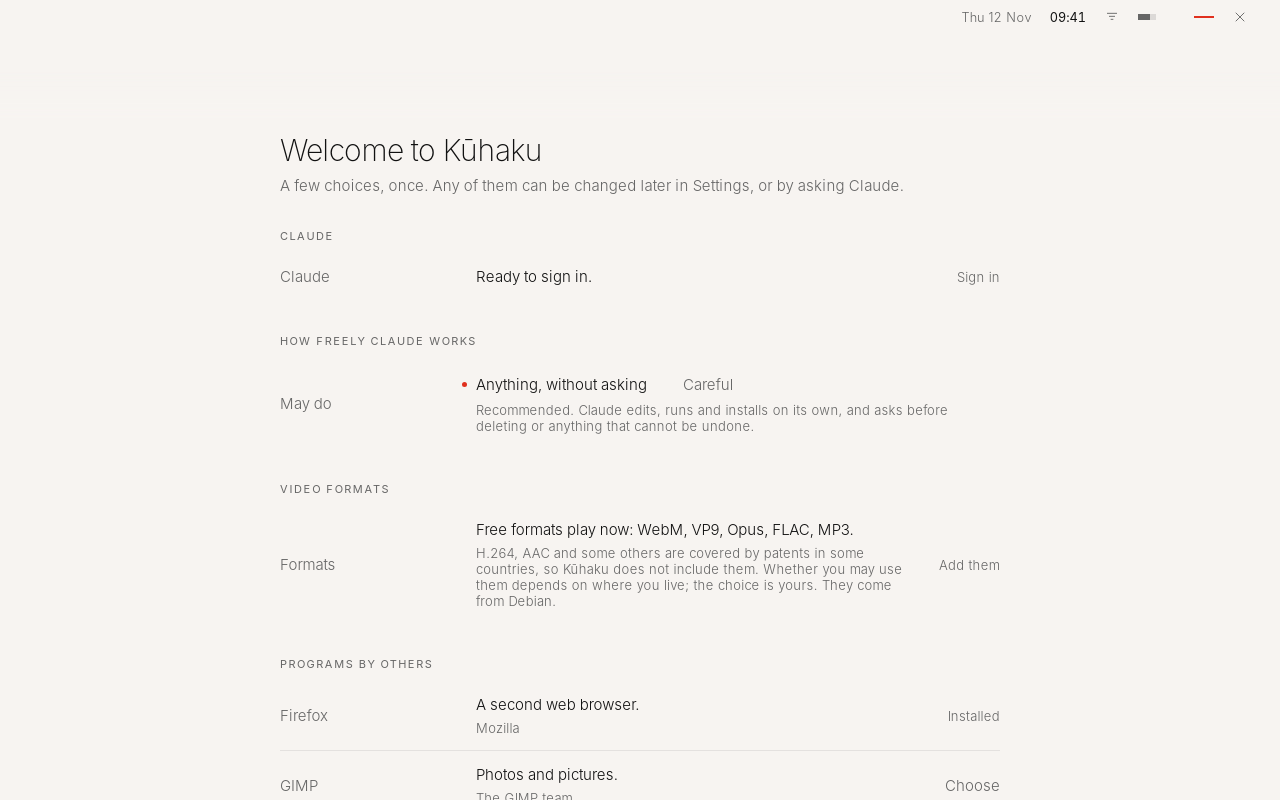
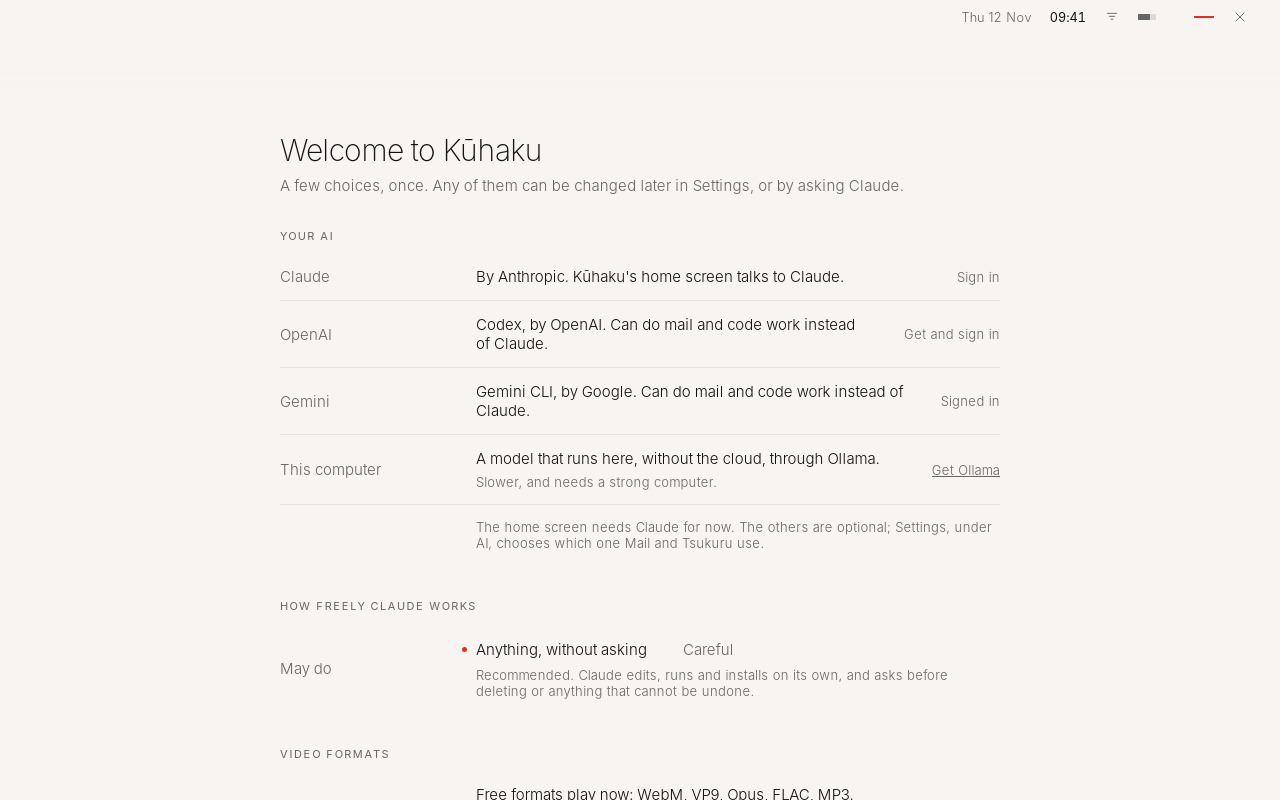
First steps: your AI, not a shopping list of programs
The page now offers Claude, OpenAI (Codex) and Gemini, and a model on
this computer (Ollama), instead of a list of programs (just ask for
those). Codex and Gemini CLI are fetched from npm into ~/.local the
first time they are chosen, with Node from Debian if needed; signing in
to them from Settings used to fail silently when they were missing.

diff --git a/home/pages.js b/home/pages.js
@@ -84,21 +84,34 @@ function renderApps() {
   });
 }
 // ---- The first start: a few choices, once (for those who added Kūhaku without its installer) ----
-let welcome = null, wPicked = new Set(), wTimer = 0;
+let welcome = null, wTimer = 0;
 window.setWelcome = (d) => { welcome = d; if (page === 'welcome') renderWelcome(); };
+const WELCOME_AI = [
+  ['claude', 'Claude', 'By Anthropic. Kūhaku\'s home screen talks to Claude.'],
+  ['codex', 'OpenAI', 'Codex, by OpenAI. Can do mail and code work instead of Claude.'],
+  ['gemini', 'Gemini', 'Gemini CLI, by Google. Can do mail and code work instead of Claude.'],
+];
 function renderWelcome() {
   clearTimeout(wTimer);
   if (page !== 'welcome') return;
-  wTimer = setTimeout(() => native({ type: 'panel', action: 'welcome' }), 4000);  // Claude may finish arriving
+  wTimer = setTimeout(() => native({ type: 'panel', action: 'welcome' }), 4000);  // sign-ins finish elsewhere
   const w = welcome;
   let h = '<div class="inner narrow"><h1>Welcome to Kūhaku</h1>' +
     '<p class="p-sub" style="font-size:15px">A few choices, once. Any of them can be changed later in Settings, or by asking Claude.</p>';
   if (!w) { $('page').innerHTML = h + '<div class="p-wait" style="margin-top:24px"><span class="dot"></span>Looking around…</div></div>'; return; }
-  const claude = { ready: 'Signed in. Ask for anything on the home screen.', signin: 'Ready to sign in.',
-    waiting: 'Arriving from Anthropic. This needs the internet.' }[w.claude];
-  h += `<div class="p-label"><span>Claude</span></div><div class="p-rows">
-    <div class="srow"><span class="k">Claude</span><span class="grow">${claude}</span>
-      ${w.claude === 'signin' ? '<button class="p-link" data-wel="signin">Sign in</button>' : ''}</div></div>`;
+  const act = (k, st) => ({
+    ready: '<span class="p-sub" style="margin:0">Signed in</span>',
+    working: '<span class="p-sub" style="margin:0">Signing in…</span>',
+    waiting: '<span class="p-sub" style="margin:0">Arriving…</span>',
+    signin: `<button class="p-link" data-wel="ai" data-v="${k}">Sign in</button>`,
+    get: `<button class="p-link" data-wel="ai" data-v="${k}">Get and sign in</button>`,
+  }[st] || '');
+  h += `<div class="p-label"><span>Your AI</span></div><div class="p-rows">` +
+    WELCOME_AI.map(([k, name, about]) => `<div class="srow"><span class="k">${name}</span><span class="grow">${about}</span>${act(k, (w.ai || {})[k])}</div>`).join('');
+  const L = w.local || {};
+  h += `<div class="srow"><span class="k">This computer</span><span class="grow">A model that runs here, without the cloud, through Ollama.${L.models && L.models.length ? '' : '<div class="p-sub">Slower, and needs a strong computer.</div>'}</span>
+    ${L.running && L.models.length ? '<span class="p-sub" style="margin:0">Ready</span>' : '<a class="p-link" href="https://ollama.com/download">Get Ollama</a>'}</div>
+    <div class="srow"><span class="k"></span><span class="grow p-sub" style="margin:0">The home screen needs Claude for now. The others are optional; Settings, under AI, chooses which one Mail and Tsukuru use.</span></div></div>`;
   const mode = w.permission_mode === 'bypassPermissions' ? 'bypassPermissions' : 'acceptEdits';  // as Settings reads it
   h += `<div class="p-label"><span>How freely Claude works</span></div><div class="p-rows">
     <div class="srow"><span class="k">May do</span><div class="grow">${OPT('permission_mode', [['bypassPermissions', 'Anything, without asking'], ['acceptEdits', 'Careful']], mode)}
@@ -109,12 +122,8 @@ function renderWelcome() {
     <div class="srow"><span class="k">Formats</span><div class="grow">${c.added ? 'All, including H.264 and AAC.' : 'Free formats play now: WebM, VP9, Opus, FLAC, MP3.'}
       ${c.added ? '' : '<div class="p-sub">H.264, AAC and some others are covered by patents in some countries, so Kūhaku does not include them. Whether you may use them depends on where you live; the choice is yours. They come from Debian.</div>'}</div>
       ${c.added ? '' : `<button class="p-link" data-wel="codecs">${c.running ? 'Adding…' : 'Add them'}</button>`}</div></div>`;
-  h += `<div class="p-label"><span>Programs by others</span></div><div class="p-rows">` +
-    (w.programs || []).map((a) => `<div class="srow"><span class="k">${esc(a.name)}</span><span class="grow">${esc(a.about)}<div class="p-sub">${esc(a.by)}</div></span>
-      ${a.installed ? '<span class="p-sub" style="margin:0">Installed</span>'
-        : `<span class="opt${wPicked.has(a.id) ? ' sel' : ''}" data-wel="pick" data-v="${esc(a.id)}">${wPicked.has(a.id) ? 'Chosen' : 'Choose'}</span>`}</div>`).join('') +
-    (wPicked.size ? `<div class="srow"><span class="k"></span><span class="grow"></span><button class="p-link" data-wel="programs">${w.adding ? 'Adding…' : 'Add the chosen ' + (wPicked.size > 1 ? 'programs' : 'program')}</button></div>` : '') +
-    '</div>';
+  h += `<div class="p-label"><span>Everything else</span></div><div class="p-rows">
+    <div class="srow"><span class="k">Programs</span><span class="grow">Just ask on the home screen, like “install LibreOffice” or “I need something to edit photos”.</span></div></div>`;
   h += `<div class="p-rows" style="margin-top:34px"><div class="srow"><span class="k"></span><span class="grow"></span><button class="p-link" data-wel="done" style="font-size:15px;color:var(--fg)">Done</button></div></div></div>`;
   const top = $('page').scrollTop;
   $('page').innerHTML = h; $('page').scrollTop = top;
@@ -125,10 +134,8 @@ $('page').addEventListener('click', (e) => {
   const b = e.target.closest('[data-wel]'); if (!b) return;
   e.stopPropagation();
   const act = b.dataset.wel, pref = (key, value) => native({ type: 'panel', action: 'pref', key, value, quiet: true });
-  if (act === 'pick') { wPicked.has(b.dataset.v) ? wPicked.delete(b.dataset.v) : wPicked.add(b.dataset.v); return renderWelcome(); }
-  if (act === 'signin') pref('welcome-signin', 1);
+  if (act === 'ai') { pref('welcome-ai', b.dataset.v); b.textContent = 'Signing in…'; }
   if (act === 'codecs') { pref('add-codecs', 1); b.textContent = 'Adding…'; }
-  if (act === 'programs') { pref('welcome-programs', [...wPicked]); b.textContent = 'Adding…'; wPicked.clear(); }
   if (act === 'done') { pref('welcome-done', 1); return closePage(); }
   setTimeout(() => native({ type: 'panel', action: 'welcome' }), 600);
 }, true);
@@ -238,7 +245,7 @@ function renderSettings() {
   h += `<div class="p-label" id="sec-updates"><span>Updates</span></div><div class="p-rows">
     <div class="srow"><span class="k">Updates</span><span class="grow">${u.auto ? 'Security fixes install by themselves' : 'Not automatic'}${u.checked ? ' · last ' + when(u.checked) : ''}</span>
       <button class="p-link" data-pref-btn="update-now">${u.running ? 'Updating…' : 'Update now'}</button></div>
-    <div class="srow"><span class="k">First steps</span><span class="grow">Claude, how freely it works, video formats and programs, on one page</span>
+    <div class="srow"><span class="k">First steps</span><span class="grow">Your AI, how freely it works and video formats, on one page</span>
       <span class="p-link" data-act2="welcome">Open</span></div>
     <div class="srow"><span class="k">Video formats</span><span class="grow">${(p.codecs || {}).added ? 'All, including H.264 and AAC' : 'Free formats only. H.264, AAC and others are covered by patents in some countries; adding them is your choice.'}</span>
       ${(p.codecs || {}).added ? '' : `<button class="p-link" data-pref-btn="add-codecs">${(p.codecs || {}).running ? 'Adding…' : 'Add'}</button>`}</div></div>`;

diff --git a/kuhaku_settings.py b/kuhaku_settings.py
@@ -20,6 +20,7 @@ from gi.repository import GLib
 import claude_accounts as accounts
 from kuhaku_base import Home
 from kuhaku_config import ANSWERS_FILE, CONFIG_FILE, HERE, HOME
+from kuhaku_log import note as log_note
 from kuhaku_log import report
 from kuhaku_system import (
     PAD_KEYS,
@@ -44,35 +45,8 @@ KEEP_CODECS = (
     " && apt-mark manual $p >/dev/null || true; done; } && "
 )
 
-# The first start, for people who added Kūhaku without its installer: the installer's programs by
-# others, from Debian (each with the package names it may have; Mint and Debian differ a little).
-PROGRAMS = (
-    ("firefox", "Firefox", "Mozilla", "A second web browser.", ("firefox-esr", "firefox")),
-    ("thunderbird", "Thunderbird", "Mozilla", "Mail and calendar.", ("thunderbird",)),
-    ("libreoffice", "LibreOffice", "The Document Foundation", "Documents, spreadsheets, slides.", ("libreoffice",)),
-    ("gimp", "GIMP", "The GIMP team", "Photos and pictures.", ("gimp",)),
-    ("inkscape", "Inkscape", "The Inkscape project", "Drawings and vector graphics.", ("inkscape",)),
-    ("krita", "Krita", "KDE", "Painting.", ("krita",)),
-    ("vlc", "VLC", "VideoLAN", "Plays any video or music.", ("vlc",)),
-    ("audacity", "Audacity", "Audacity team", "Records and edits sound.", ("audacity",)),
-    ("blender", "Blender", "Blender Foundation", "3D models and animation.", ("blender",)),
-    ("freecad", "FreeCAD", "FreeCAD project", "3D design for making things.", ("freecad",)),
-)
-
-
-def installed(packages):
-    """Which of these packages are installed."""
-    _, out, _ = run(["dpkg-query", "-W", "-f=${Package} ${Status}\\n", *packages])
-    return {line.split()[0] for line in out.splitlines() if line.endswith("ok installed")}
-
-
-def available(names):
-    """The first of these package names the package sources know (empty when none)."""
-    for name in names:
-        rc, out, _ = run(["apt-cache", "policy", name])
-        if rc == 0 and "Candidate:" in out and "Candidate: (none)" not in out:
-            return name
-    return ""
+# Other AIs Kūhaku can work with, fetched from their makers (npm) the first time they are chosen.
+AI_TOOLS = {"codex": "@openai/codex", "gemini": "@google/gemini-cli"}
 
 
 def welcome_due(state):
@@ -233,10 +207,8 @@ class Settings(Home):
             self.update_now()
         elif key == "add-codecs":
             self.add_codecs()
-        elif key == "welcome-programs":
-            self.add_programs([str(x) for x in (value or []) if isinstance(x, str)])
-        elif key == "welcome-signin":
-            GLib.idle_add(lambda: self.sign_in(accounts.active()["id"]) and False)
+        elif key == "welcome-ai" and value in ("claude", *AI_TOOLS):
+            self.get_ai(value)
         elif key == "welcome-done":
             self.state["welcomed"] = True
             self.save_state()
@@ -306,46 +278,73 @@ class Settings(Home):
         self.note("Video formats", "Adding…")
 
     def read_welcome(self):
-        """What the first-start page shows: Claude, how freely it works, video formats, programs."""
-        acct = accounts.active()
-        has_claude = Path(self.claude).exists() or bool(shutil.which("claude"))
-        have = installed([n for *_, names in PROGRAMS for n in names])
+        """What the first-start page shows: the AIs, how freely Claude works, video formats."""
+        home_set = accounts.active()["set"]
+        signing: set[str] = getattr(self, "signing", set())
+        getting: set[str] = getattr(self, "getting_ai", set())
+        ai = {}
+        for k in ("claude", *AI_TOOLS):
+            acct = accounts.find(home_set, k)
+            have = Path(accounts.exe(k)).exists() or (k == "claude" and Path(self.claude).exists())
+            if acct and accounts.signed_in(acct):
+                ai[k] = "ready"
+            elif k in getting or (acct and acct["id"] in signing):
+                ai[k] = "working"
+            elif have:
+                ai[k] = "signin"
+            else:
+                ai[k] = "waiting" if k == "claude" else "get"  # Claude Code arrives by itself at the first start
         return {
-            "claude": "ready" if accounts.signed_in(acct) else ("signin" if has_claude else "waiting"),
+            "ai": ai,
+            "local": accounts.local_status(),
             "permission_mode": self.config.get("permission_mode") or "default",
             "codecs": {"added": codecs_added(), "running": bool(getattr(self, "adding_codecs", None))},
-            "programs": [
-                {"id": i, "name": n, "by": by, "about": about, "installed": bool(have & set(names))}
-                for i, n, by, about, names in PROGRAMS
-            ],
-            "adding": bool(getattr(self, "adding_programs", None)),
         }
 
-    def add_programs(self, ids):
-        """Programs by others chosen on the first-start page, from the system's package sources
-        (asks for the password once)."""
-        wanted = [names for i, *_, names in PROGRAMS if i in ids]
-        if not wanted or getattr(self, "adding_programs", None):
+    def get_ai(self, k):
+        """Sign in to one of the AIs; OpenAI's Codex and Google's Gemini CLI are fetched from npm
+        into ~/.local first if they are not here (Node from Debian, asking for the password once)."""
+        home_set = accounts.active()["set"]
+        getting: set[str] = self.__dict__.setdefault("getting_ai", set())
+        if k in getting:
             return
+        if k == "claude" or Path(accounts.exe(k)).exists():
+            ident = accounts.ensure(home_set, k)
+            GLib.idle_add(lambda: self.sign_in(ident) and False)
+            return
+        getting.add(k)
 
         def work():
-            names = [n for n in (available(ns) for ns in wanted) if n]
-            rc = 1
-            if names:  # names only from PROGRAMS, never from the page
-                rc = subprocess.run(
-                    [
-                        "pkexec",
-                        "sh",
-                        "-c",
-                        "DEBIAN_FRONTEND=noninteractive apt-get update -q && "
-                        "DEBIAN_FRONTEND=noninteractive apt-get install -y -q " + " ".join(names),
-                    ],
+            ok = True
+            if not shutil.which("npm"):
+                ok = (
+                    subprocess.run(
+                        [
+                            "pkexec",
+                            "sh",
+                            "-c",
+                            "DEBIAN_FRONTEND=noninteractive apt-get update -q && "
+                            "DEBIAN_FRONTEND=noninteractive apt-get install -y -q nodejs npm",
+                        ],
+                        capture_output=True,
+                    ).returncode
+                    == 0
+                )
+            if ok:
+                r = subprocess.run(
+                    ["npm", "install", "-g", "--prefix", str(HOME / ".local"), AI_TOOLS[k]],
                     capture_output=True,
-                ).returncode
-            self.adding_programs = None
-            msg = "Added" if rc == 0 else ("Cancelled" if rc in (126, 127) else "Could not finish")
-            GLib.idle_add(self.note, "Programs", msg)
+                    text=True,
+                )
+                ok = r.returncode == 0 and Path(accounts.exe(k)).exists()
+                if not ok:
+                    log_note(f"npm install {AI_TOOLS[k]}: {r.stderr[-400:]}")
+            getting.discard(k)
+            if ok:
+                ident = accounts.ensure(home_set, k)
+                GLib.idle_add(lambda: self.sign_in(ident) and False)
+            else:
+                GLib.idle_add(self.note, accounts.KINDS[k]["label"], "Could not get it")
 
-        self.adding_programs = threading.Thread(target=work, daemon=True)
-        self.adding_programs.start()
-        self.note("Programs", "Adding…")
+        threading.Thread(target=work, daemon=True).start()
+        self.note(accounts.KINDS[k]["label"], "Getting it…")

diff --git a/uitests/test_home_ui.py b/uitests/test_home_ui.py
@@ -90,14 +90,10 @@ class Night(PageCase):
 
 
 WELCOME = {
-    "claude": "signin",
+    "ai": {"claude": "signin", "codex": "get", "gemini": "ready"},
+    "local": {"installed": False, "running": False, "models": []},
     "permission_mode": "bypassPermissions",
     "codecs": {"added": False, "running": False},
-    "programs": [
-        {"id": "firefox", "name": "Firefox", "by": "Mozilla", "about": "A second web browser.", "installed": True},
-        {"id": "gimp", "name": "GIMP", "by": "The GIMP team", "about": "Photos and pictures.", "installed": False},
-    ],
-    "adding": False,
 }
 
 
@@ -112,23 +108,31 @@ class FirstStart(PageCase):
     def text(self):
         return self.page.js("return document.getElementById('page').innerText;")
 
+    def sent(self, key):
+        return [m for m in self.page.messages if isinstance(m, dict) and m.get("key") == key]
+
     def test_the_choices_are_there(self):
         t = self.text()
-        for words in ("Welcome to Kūhaku", "Sign in", "Anything, without asking", "patents", "Add them", "Installed"):
+        for words in (
+            "Welcome to Kūhaku",
+            "YOUR AI",
+            "OpenAI",
+            "Gemini",
+            "Get and sign in",
+            "Signed in",
+            "Anything, without asking",
+            "patents",
+            "Add them",
+            "Just ask",
+        ):
             self.assertIn(words, t)
         self.assertLooksLike("welcome-day", tolerance=0.004)
 
-    def test_choosing_a_program_offers_to_add_it(self):
-        self.assertNotIn("Add the chosen", self.text())
-        self.page.click("[data-wel='pick'][data-v='gimp']")
-        self.assertIn("Add the chosen program", self.text())
-        sent = [m for m in self.page.messages if m.get("key") == "welcome-programs"]
-        self.assertEqual(sent, [])
-        self.page.click("[data-wel='programs']")
-        sent = [m for m in self.page.messages if m.get("key") == "welcome-programs"]
-        self.assertEqual(sent[-1]["value"], ["gimp"])
+    def test_getting_another_ai(self):
+        self.page.click("[data-wel='ai'][data-v='codex']")
+        self.assertEqual(self.sent("welcome-ai")[-1]["value"], "codex")
 
     def test_done_closes_and_remembers(self):
         self.page.click("[data-wel='done']")
-        self.assertTrue([m for m in self.page.messages if m.get("key") == "welcome-done"])
+        self.assertTrue(self.sent("welcome-done"))
         self.assertEqual(self.page.js("return document.getElementById('page').hidden;"), True)

diff --git a/CHANGELOG.md b/CHANGELOG.md
@@ -6,7 +6,7 @@ number lives in `VERSION`, and each release is a git tag (`v0.3.0`).
 ## Unreleased
 
 ### New
-- **First steps.** People who add Kūhaku to Debian or Mint without its installer get one quiet page at the first start: sign in to Claude, how freely it works, video formats, and programs by others. It shows once, and stays in Settings → Updates → First steps.
+- **First steps.** People who add Kūhaku to Debian or Mint without its installer get one quiet page at the first start: sign in to Claude, and to OpenAI (Codex) or Gemini if they like, how freely Claude works, and video formats. OpenAI's and Google's tools are fetched from npm the first time they are chosen (also from Settings → AI, where signing in to them used to fail when they were missing). Other programs: just ask. It shows once, and stays in Settings → Updates → First steps.
 
 ### Changed
 - Kūhaku no longer ships media formats covered by patents in some countries (H.264, H.265, AAC and others: the GStreamer bad, ugly and libav plugins). You add them yourself if you choose, with **More video formats** in the installer or **Settings → Updates → Video formats**. Computers that already have them keep them. Without them, screen recordings are saved as WebM (VP8) instead of MP4.

diff --git a/INSTALL.md b/INSTALL.md
@@ -38,7 +38,7 @@ There are two ways in:
    ```
    It downloads the latest package and installs it with apt. Or by hand: download `kuhaku_all.deb` from the [latest release](https://github.com/rudolfkrcmar/kuhaku-linux/releases/latest) and run `sudo apt install ./kuhaku_all.deb`.
 2. Log out. On the login screen choose the **Kūhaku** session, and log in.
-3. Kūhaku sets itself up in `~/.local/share/kuhaku`, installs Claude Code and shows **First steps**, one page with the installer's choices: sign in to Claude, how freely it works, video formats, and programs. It shows once; it stays in Settings → Updates.
+3. Kūhaku sets itself up in `~/.local/share/kuhaku`, installs Claude Code and shows **First steps**, one page with the installer's choices: sign in to Claude (and OpenAI or Gemini, if you like), how freely it works, and video formats. It shows once; it stays in Settings → Updates.
 
 To go back, choose your old session on the login screen. To remove it: `sudo apt remove kuhaku`, and delete `~/.local/share/kuhaku` if you like.
 
